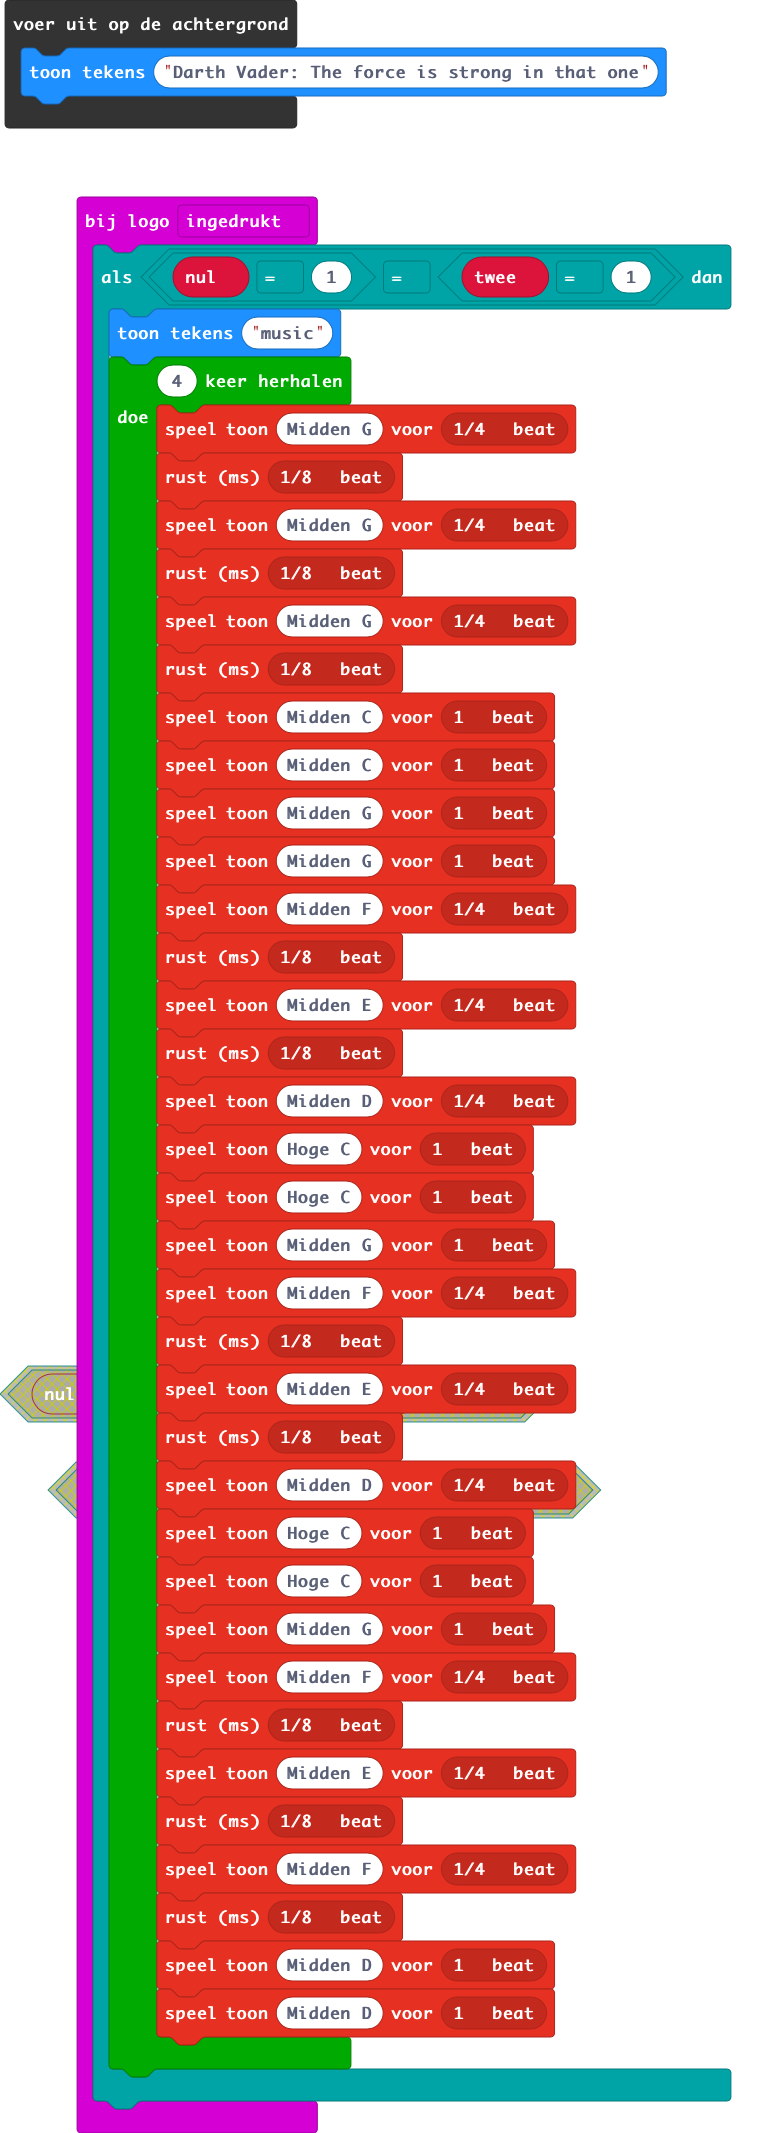
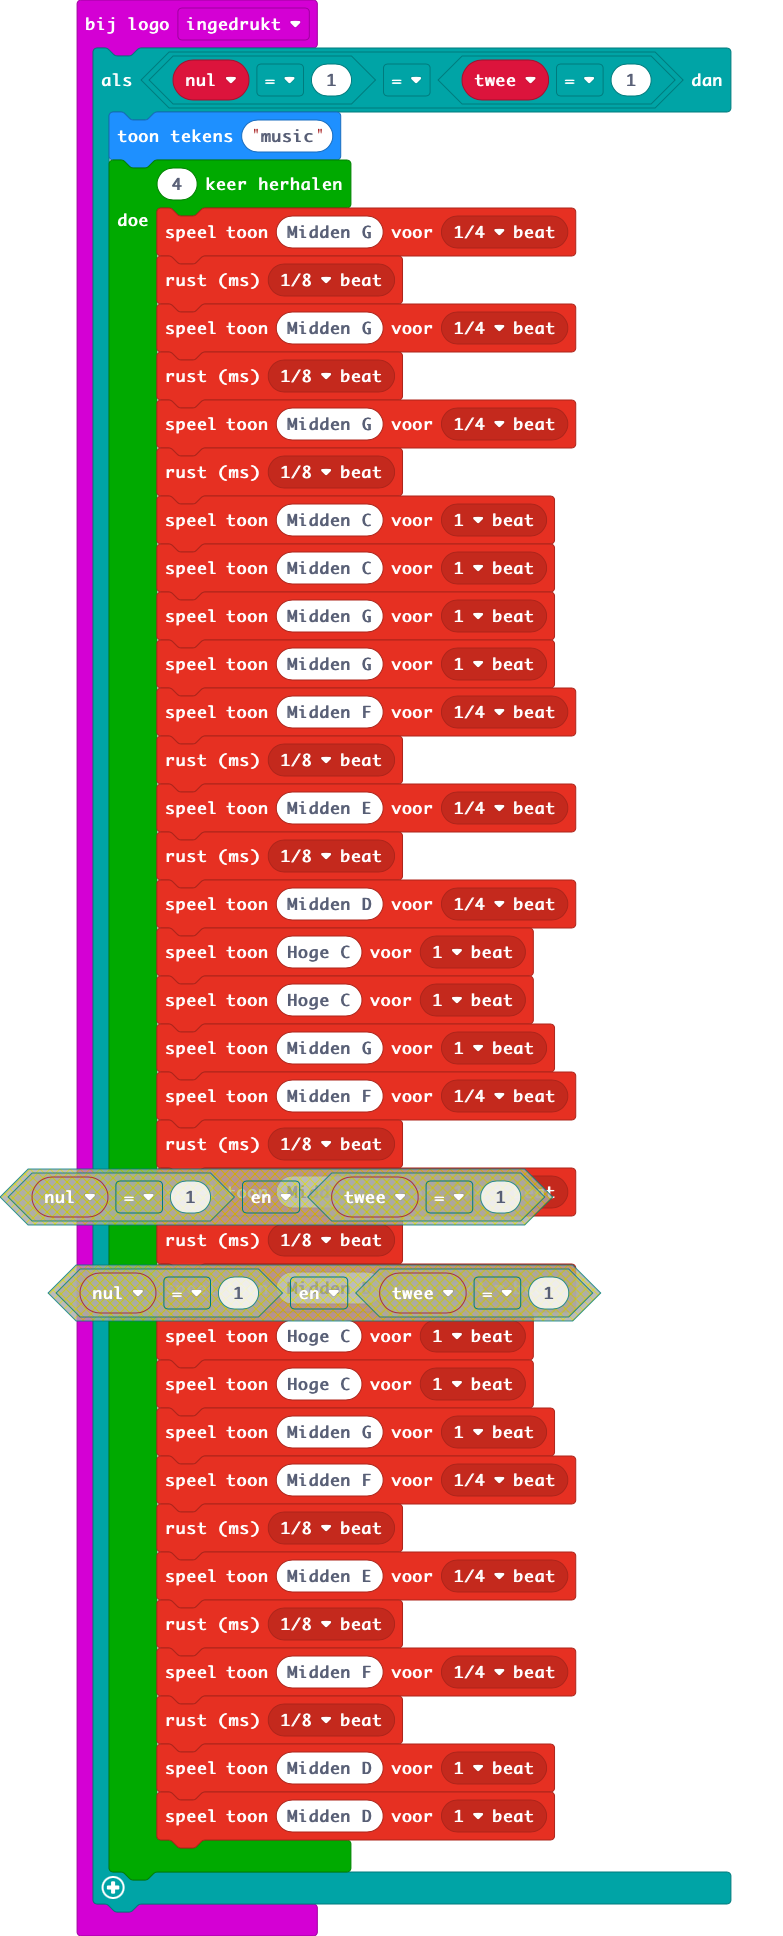
main.blocks, main.ts bijwerken

diff --git a/main.ts b/main.ts
@@ -41,6 +41,3 @@ input.onLogoEvent(TouchButtonEvent.Pressed, function () {
         }
     }
 })
-control.inBackground(function () {
-    basic.showString("Darth Vader: The force is strong in that one")
-})
